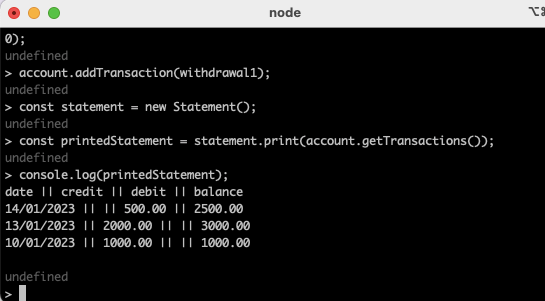
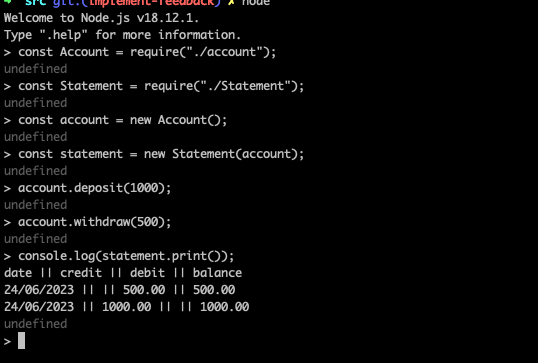
update readme and add screenshots

Changed region(s): [[0.0, 0.0, 1.0, 1.0]]

diff --git a/README.md b/README.md
@@ -26,7 +26,86 @@ npm install
 npm run test
 ```
 
-To run the project to match the acceptance critera, in addition to the above:
+To run the project, in addition to the above:
+
+```plain
+cd src
+node
+const Account = require("./account");
+const Statement = require("./Statement");
+const account = new Account();
+const statement = new Statement(account);
+account.deposit(1000);
+account.withdraw(500);
+console.log(statement.print());
+```
+
+To run the project to match the acceptance critera:
+
+```plain
+const Account = require("./account");
+const Statement = require("./Statement");
+const account = new Account();
+const statement = new Statement(account);
+account.deposit(1000, new Date("2023-01-10"));
+account.deposit(2000, new Date("2023-01-13"));
+account.withdraw(500, new Date("2023-01-14"));
+console.log(statement.print());
+```
+
+## Built with
+
+- JavaScript
+- Jest
+- ESLint
+
+## Approach
+
+Based on feedback I have decoupled the balance from the transaction. I have added a function that recalculates the balances on every transaction - to ensure this is always correct, even if transactions were to be added not in order. Creation of a transaction is now handled automatically on the user making a deposit or withdrawal and by default the date is handled by the JS Date/Time object and will be the current date. I have added this as an argument, so that the date can be manipulated if desired.
+
+I have kept the same design overall with three classes, however it is now much more simplified.
+
+This is my updated class design:
+
+![updated class design](./diagrams/updated-class-design.png)
+
+## Screenshots
+
+Running app:
+
+![Running app](./diagrams/screenshot-running-app.png)
+
+Acceptance criteria:
+
+![Acceptance criteria](./diagrams/screenshot-acceptance-criteria.png)
+
+Test coverage:
+
+![Test coverage](./diagrams/screenshot-test-coverage.png)
+
+## Planning
+
+Below is a diagram of my initial thoughts/considerations. I did consider the transactions being a part of the Account class, but in wanting to follow the Single Responsibility Principle, I have decided that this should be a class of its own. This left me to consider which class keeps track of the balance, how this should get updated and also how to keep a log of the transactions to be printed.
+
+I have decided to structure my code with three classes - transaction; account, which will keep track of the balance, list of transactions, and add instances of the transaction class to the transactions list; and statement, which will take a list of transactions and return a formatted statement.
+
+![initial thoughts](./diagrams/initial-thoughts.png)
+
+Following this, I created a list of how I think the program should run and roughly designed my classes.
+
+![class design](./diagrams/class-design.png)
+
+## Original Approach
+
+During development, my class design and function names did change as I got a better grasp on what I needed. I have also refactored some of my code into smaller functions. I was initially going to have one transaction function that took the type as a dependency. I also considered deducing this from whether the amount was positive or negative. However, I eventually decided to create a separate deposit and withdrawal function for better readability and following the single responsibility principle. I also chose to inject the date as a dependency to make testing this class easier.
+
+In the Statement class, I eventually chose not to initialise this with the transaction list but instead to add this as an argument to the print function. I'm not sure if there is a benefit to either way, but I thought for future scalability if for instance the transaction list was much longer and you only wanted to print a section of it, it would be better to make this an argument.
+
+I have handled some exceptions, where the type is incorrect or amount is less than 0. I considered handling an edge case where the withdrawal was larger than the balance - but chose not to because this was not in the acceptance criteria.
+
+Following feedback, I have updated and simplified my approach as detailed above.
+
+## Original instructions
 
 ```plain
 cd src
@@ -46,35 +125,3 @@ const statement = new Statement();
 const printedStatement = statement.print(account.getTransactions());
 console.log(printedStatement);
 ```
-
-## Planning
-
-Below is a diagram of my initial thoughts/considerations. I did consider the transactions being a part of the Account class, but in wanting to follow the Single Responsibility Principle, I have decided that this should be a class of its own. This left me to consider which class keeps track of the balance, how this should get updated and also how to keep a log of the transactions to be printed.
-
-I have decided to structure my code with three classes - transaction; account, which will keep track of the balance, list of transactions, and add instances of the transaction class to the transactions list; and statement, which will take a list of transactions and return a formatted statement.
-
-![initial thoughts](./diagrams/initial-thoughts.png)
-
-Following this, I created a list of how I think the program should run and roughly designed my classes.
-
-![class design](./diagrams/class-design.png)
-
-## Approach
-
-During development, my class design and function names did change as I got a better grasp on what I needed. I have also refactored some of my code into smaller functions. I was initially going to have one transaction function that took the type as a dependency. I also considered deducing this from whether the amount was positive or negative. However, I eventually decided to create a separate deposit and withdrawal function for better readability and following the single responsibility principle. I also chose to inject the date as a dependency to make testing this class easier.
-
-In the Statement class, I eventually chose not to initialise this with the transaction list but instead to add this as an argument to the print function. I'm not sure if there is a benefit to either way, but I thought for future scalability if for instance the transaction list was much longer and you only wanted to print a section of it, it would be better to make this an argument.
-
-I have handled some exceptions, where the type is incorrect or amount is less than 0. I considered handling an edge case where the withdrawal was larger than the balance - but chose not to because this was not in the acceptance criteria.
-
-I am wondering if I have overcomplicated the task, as there are a lot of steps involved in running the project to meet the acceptance criteria.
-
-## Screenshots
-
-Running app:
-
-![Running app](./diagrams/screenshot-running-app.png)
-
-Test coverage:
-
-![Test coverage](./diagrams/screenshot-test-coverage.png)
